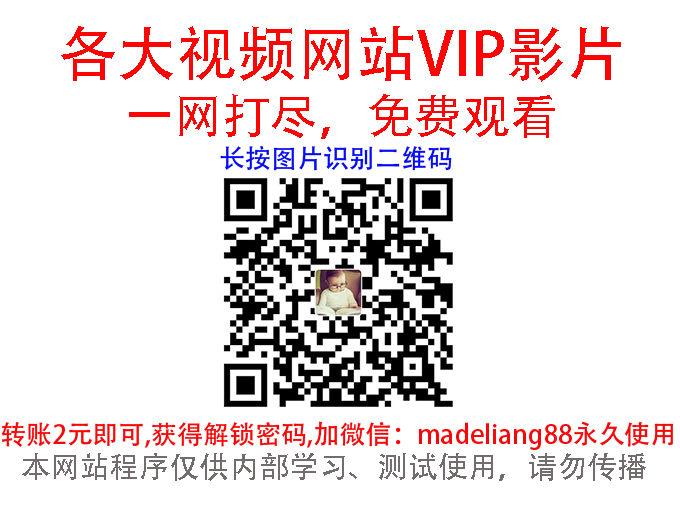
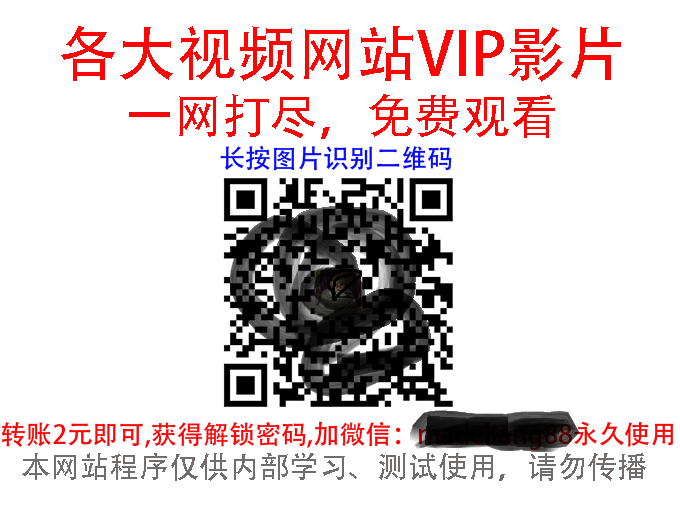
ss

Changed region(s): [[0.3397, 0.3824, 0.6485, 0.7941], [0.5868, 0.7941, 0.8647, 0.9118]]

diff --git a/index.html b/index.html
@@ -152,7 +152,7 @@
                     问：是否所有vip视频都能观看<br>
                     答：大部分vip视频都可以免费观看，很少有不能看的！<br>
                     
-                </p><p><font color="#FF3030">郑重申明：本站只在线破解,并不存储VIP影视<br>版权类问题与本站无关!<a target="_blank" href="http://wpa.qq.com/msgrd?v=3&amp;uin=657405443&amp;site=qq&amp;menu=yes"><img border="0" src="pa" alt="点击这里给我发消息" title="点击这里给我发消息"></a></font></p>
+                </p><p><font color="#FF3030">郑重申明：本站只在线破解,并不存储VIP影视<br>版权类问题与本站无关!<a target="_blank" href="http://wpa.qq.com/msgrd?v=3&amp;uin=&amp;site=qq&amp;menu=yes"><img border="0" src="pa" alt="点击这里给我发消息" title="点击这里给我发消息"></a></font></p>
             </div>
         </div>
         <div class="right_box" style="position:relative;">
@@ -162,7 +162,7 @@
             </div>
             <!--//认证完毕-->
             <div id="mask" style="z-index: 19861114; position: absolute; width: 100%; top: 0; left: 0; bottom: 0; height: 520px; background: rgba(255, 255, 255, 0.15); display: none;">
-                <br>&nbsp;&nbsp;添加微信号：madeliang88（发2元红包即可）获取消除密码！！<br>
+                <br>&nbsp;&nbsp;添加微信号：（发2元红包即可）获取消除密码！！<br>
                 <div style="text-align:center;" id="loading">
                     <img src="102.png" style=" max-width: 100%;">
                 </div>
